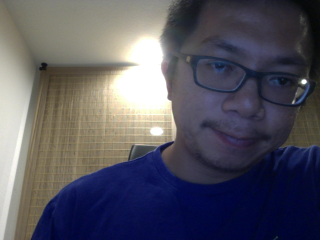
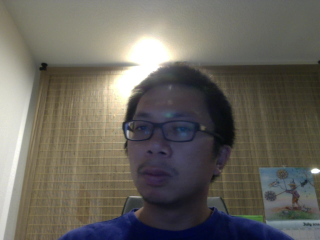
add image element to show face detection

diff --git a/demos/demo_video_only.html b/demos/demo_video_only.html
@@ -125,6 +125,14 @@
                             </tr>
                             <tr>
                                 <td>
+                                    <img id="selfImage" width="320" height="240"></img>
+                                </td>
+                                <td>
+                                    <img id="callerImage" width="320" height="240"></img>
+                                </td>
+                            </tr>
+                            <tr>
+                                <td>
                                     <p><b id='selfJson'></b></p>
                                 </td>
                                 <td>
@@ -273,11 +281,34 @@
                                             sDetect = new Image();
                                             sDetect.src = resultingfilepath; // can also be a remote URL e.g. http://
                                             sDetect.onload = function() {
-                                                context.drawImage(sDetect,0,0, 320, 240);
+
+//                                                console.info("resetting the source ... :)")
+
+                                                d = new Date();
+                                                $('#selfImage').attr("src", sDetect.src + "?" + d.getTime());
+
+                                                //canvas.width = canvas.width;
+                                                //context.clearRect(0, 0, canvas.width, canvas.height);
+                                                //context.drawImage(sDetect,0,0, 320, 240);
                                             };
 
                                         } else {
                                             setTimeout(showError.bind(this), 1500)
+
+
+//                                            sDetect = new Image();
+//                                            sDetect.src = resultingfilepath; // can also be a remote URL e.g. http://
+//                                            sDetect.onload = function() {
+//
+//                                                console.info("resetting the source ... :)")
+//
+//                                                d = new Date();
+//                                                $('#selfImage').attr("src", sDetect.src + "?" + d.getTime());
+//
+//                                                //canvas.width = canvas.width;
+//                                                //context.clearRect(0, 0, canvas.width, canvas.height);
+//                                                //context.drawImage(sDetect,0,0, 320, 240);
+//                                            };
                                         }
 
                                     }
@@ -285,6 +316,21 @@
 
                                 xhttp.open('POST', '/upload');
                                 xhttp.send(formData);
+
+
+//                                sDetect = new Image();
+//                                sDetect.src = resultingfilepath; // can also be a remote URL e.g. http://
+//                                sDetect.onload = function() {
+//
+//                                    console.info("resetting the source ... :)")
+//
+//                                    d = new Date();
+//                                    $('#selfImage').attr("src", sDetect.src + "?" + d.getTime());
+//
+//                                    //canvas.width = canvas.width;
+//                                    //context.clearRect(0, 0, canvas.width, canvas.height);
+//                                    //context.drawImage(sDetect,0,0, 320, 240);
+//                                };
 
                                 // http://stackoverflow.com/questions/8977369/drawing-png-to-a-canvas-element-not-showing-transparency
                                 //
